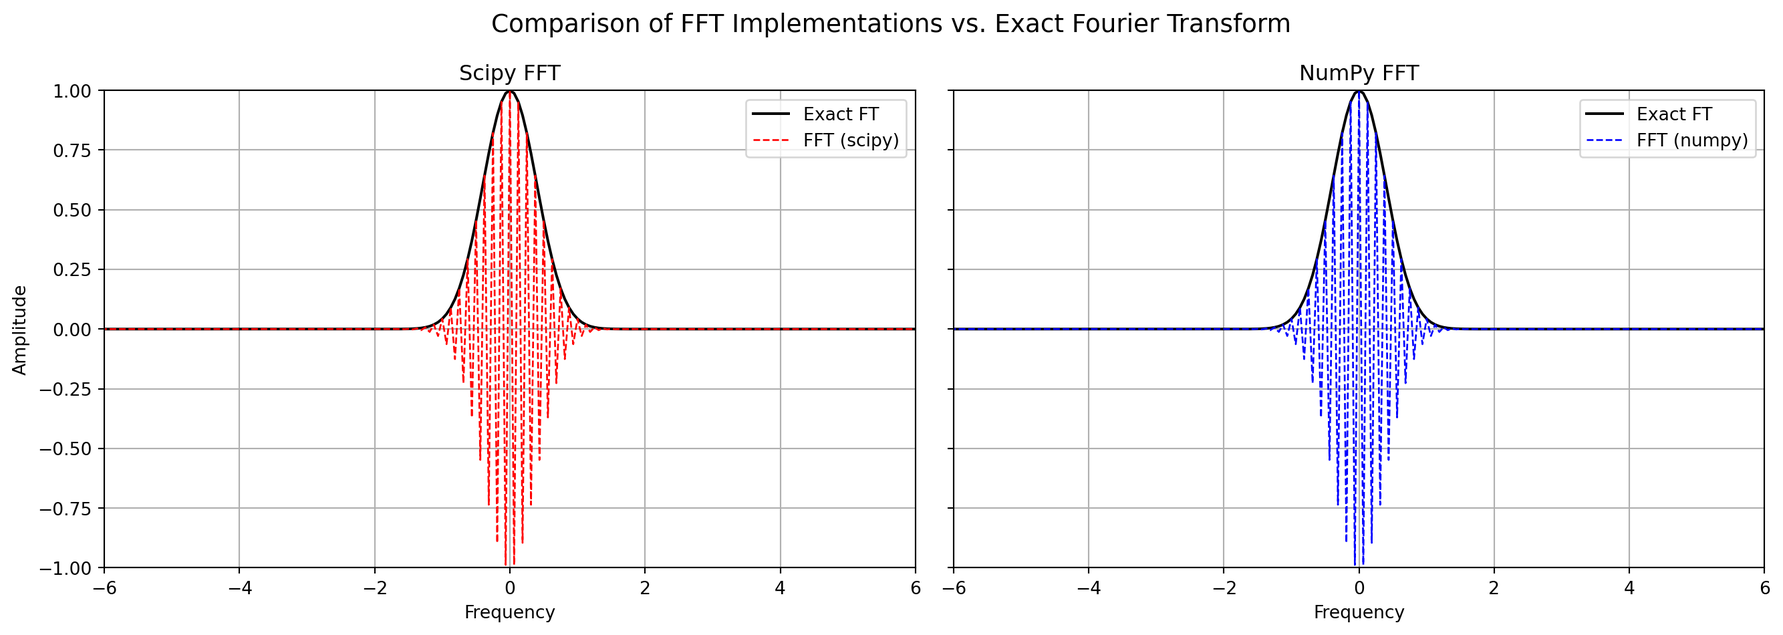
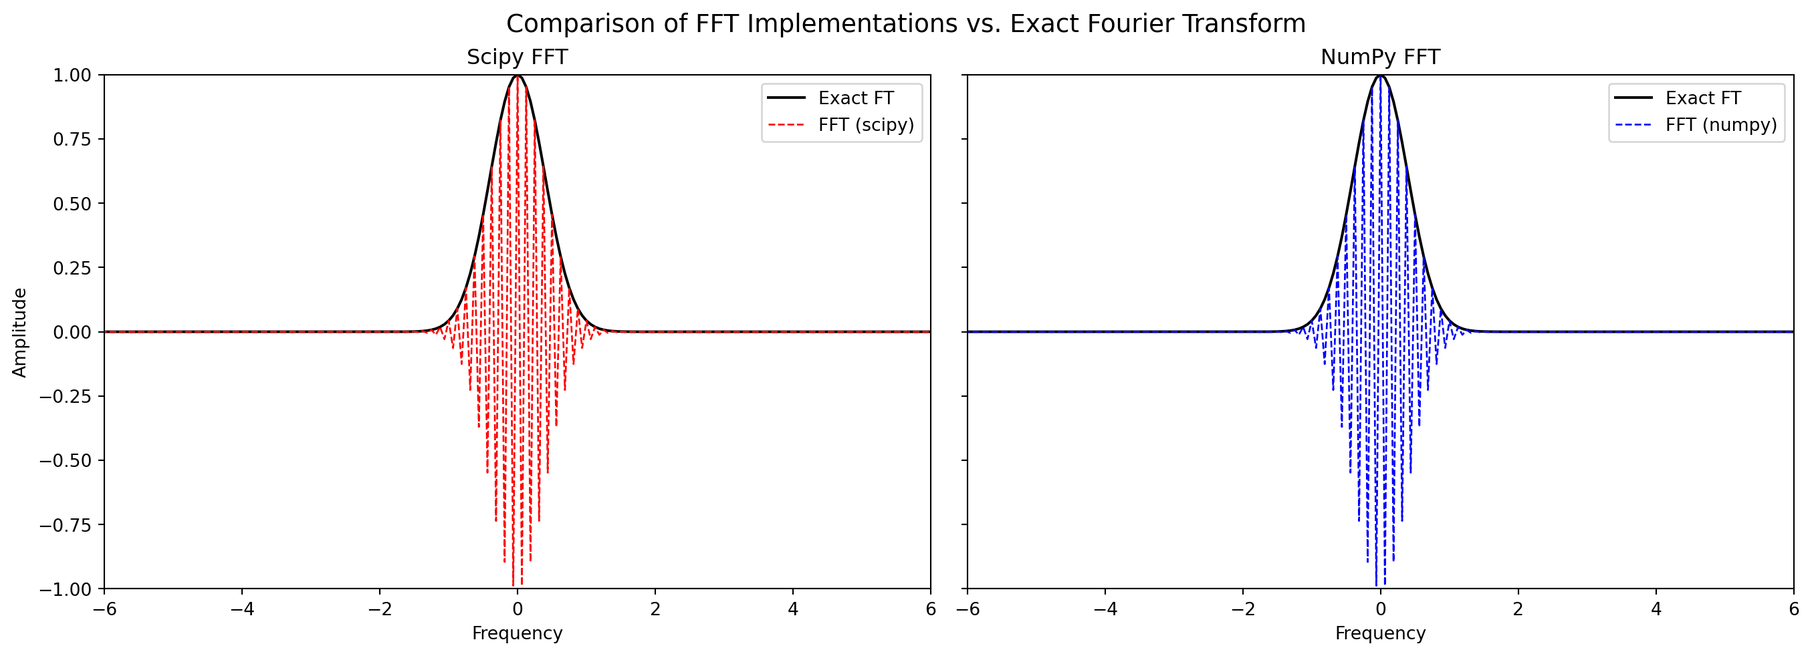
Built site for gh-pages

diff --git a/00_tds/fourrier_transformation.html b/00_tds/fourrier_transformation.html
@@ -7,7 +7,7 @@
 <meta name="viewport" content="width=device-width, initial-scale=1.0, user-scalable=yes">
 
 <meta name="author" content="Jumbong Junior">
-<meta name="dcterms.date" content="2025-06-20">
+<meta name="dcterms.date" content="2025-06-21">
 
 <title>Fourrier Transformation</title>
 <style>
@@ -126,6 +126,35 @@ div.csl-indent {
   }
 }</script>
 
+  <script src="https://cdnjs.cloudflare.com/polyfill/v3/polyfill.min.js?features=es6"></script>
+  <script src="https://cdn.jsdelivr.net/npm/mathjax@3/es5/tex-chtml-full.js" type="text/javascript"></script>
+
+<script type="text/javascript">
+const typesetMath = (el) => {
+  if (window.MathJax) {
+    // MathJax Typeset
+    window.MathJax.typeset([el]);
+  } else if (window.katex) {
+    // KaTeX Render
+    var mathElements = el.getElementsByClassName("math");
+    var macros = [];
+    for (var i = 0; i < mathElements.length; i++) {
+      var texText = mathElements[i].firstChild;
+      if (mathElements[i].tagName == "SPAN") {
+        window.katex.render(texText.data, mathElements[i], {
+          displayMode: mathElements[i].classList.contains('display'),
+          throwOnError: false,
+          macros: macros,
+          fleqn: false
+        });
+      }
+    }
+  }
+}
+window.Quarto = {
+  typesetMath
+};
+</script>
 
 <link rel="stylesheet" href="../styles.css">
 </head>
@@ -170,7 +199,16 @@ div.csl-indent {
     <h2 id="toc-title">Summary</h2>
    
   <ul>
-  <li><a href="#introduction" id="toc-introduction" class="nav-link active" data-scroll-target="#introduction">Introduction</a></li>
+  <li><a href="#introduction" id="toc-introduction" class="nav-link active" data-scroll-target="#introduction">Introduction</a>
+  <ul class="collapse">
+  <li><a href="#definition-and-properties-of-the-fourier-transform" id="toc-definition-and-properties-of-the-fourier-transform" class="nav-link" data-scroll-target="#definition-and-properties-of-the-fourier-transform">Definition and Properties of the Fourier Transform</a></li>
+  <li><a href="#how-to-approximate-the-fourier-transform" id="toc-how-to-approximate-the-fourier-transform" class="nav-link" data-scroll-target="#how-to-approximate-the-fourier-transform">How to approximate the Fourier Transform?</a></li>
+  <li><a href="#numerical-computation-of-the-fourier-transform" id="toc-numerical-computation-of-the-fourier-transform" class="nav-link" data-scroll-target="#numerical-computation-of-the-fourier-transform">Numerical Computation of the Fourier Transform</a></li>
+  <li><a href="#quadrature-method-of-rectangles-à-gauche" id="toc-quadrature-method-of-rectangles-à-gauche" class="nav-link" data-scroll-target="#quadrature-method-of-rectangles-à-gauche">Quadrature Method of Rectangles à Gauche</a>
+  <ul class="collapse">
+  <li><a href="#mis-en-oeuvre-in-python" id="toc-mis-en-oeuvre-in-python" class="nav-link" data-scroll-target="#mis-en-oeuvre-in-python">Mis en Oeuvre in Python</a></li>
+  </ul></li>
+  </ul></li>
   </ul>
 </nav>
 </nav>
@@ -200,7 +238,7 @@ div.csl-indent {
     <div>
     <div class="quarto-title-meta-heading">Published</div>
     <div class="quarto-title-meta-contents">
-      <p class="date">June 20, 2025</p>
+      <p class="date">June 21, 2025</p>
     </div>
   </div>
   
@@ -218,7 +256,7 @@ div.csl-indent {
 <p>Beyond spectral analysis, the Fourier transformation is employed in solving partial differential equations, evaluating integrals, and computing sums of series. It has applications in various fields, including physics, engineering, and signal processing. In recent years, it has found new uses in finance, such as estimating financial asset volatility, which We will cover in future posts.</p>
 <p>In this article, we explore the numerical computation of the Fourier transform for both real and complex functions. Drawing on the work of <span class="citation" data-cites="balac2011transformee">Balac (<a href="#ref-balac2011transformee" role="doc-biblioref">2011</a>)</span>, who proposed a quadrature-based approach, we illustrate how this method can be applied. We also demonstrate how the Fast Fourier Transform (FFT) algorithm <span class="citation" data-cites="cooley1965algorithm">(for more details see <a href="#ref-cooley1965algorithm" role="doc-biblioref">Cooley and Tukey 1965</a>)</span> enables efficient computation of the discrete Fourier transform, making it well-suited for calculating the Fourier transform of integrable functions and the Fourier coefficients of periodic functions.</p>
 <p>This article was motivated by the realization that the numerical methods implemented in Python—such as [<code>scipy.fft</code> and <code>numpy.fft</code>] do not directly compute the Fourier transform of a function. This observation had already been made by <span class="citation" data-cites="balac2011transformee">Balac (<a href="#ref-balac2011transformee" role="doc-biblioref">2011</a>)</span> in the context of MATLAB.</p>
-<div id="583e6f3f" class="cell" data-execution_count="1">
+<div id="4d157c19" class="cell" data-execution_count="1">
 <div class="sourceCode cell-code" id="cb1"><pre class="sourceCode python code-with-copy"><code class="sourceCode python"><span id="cb1-1"><a href="#cb1-1" aria-hidden="true" tabindex="-1"></a><span class="im">import</span> numpy <span class="im">as</span> np</span>
 <span id="cb1-2"><a href="#cb1-2" aria-hidden="true" tabindex="-1"></a><span class="im">import</span> matplotlib.pyplot <span class="im">as</span> plt</span>
 <span id="cb1-3"><a href="#cb1-3" aria-hidden="true" tabindex="-1"></a><span class="im">from</span> scipy.fft <span class="im">import</span> fft, fftfreq, fftshift</span>
@@ -242,36 +280,214 @@ div.csl-indent {
 <span id="cb1-21"><a href="#cb1-21" aria-hidden="true" tabindex="-1"></a>yf_numpy <span class="op">=</span> np.fft.fftshift(np.fft.fft(y)) <span class="op">*</span> T</span>
 <span id="cb1-22"><a href="#cb1-22" aria-hidden="true" tabindex="-1"></a>xf_numpy <span class="op">=</span> np.fft.fftshift(np.fft.fftfreq(N, T))</span>
 <span id="cb1-23"><a href="#cb1-23" aria-hidden="true" tabindex="-1"></a></span>
-<span id="cb1-24"><a href="#cb1-24" aria-hidden="true" tabindex="-1"></a><span class="co"># Plot side-by-side</span></span>
-<span id="cb1-25"><a href="#cb1-25" aria-hidden="true" tabindex="-1"></a>fig, axs <span class="op">=</span> plt.subplots(<span class="dv">1</span>, <span class="dv">2</span>, figsize<span class="op">=</span>(<span class="dv">14</span>, <span class="dv">5</span>), sharey<span class="op">=</span><span class="va">True</span>)</span>
+<span id="cb1-24"><a href="#cb1-24" aria-hidden="true" tabindex="-1"></a><span class="co"># Plot with subplot_mosaic</span></span>
+<span id="cb1-25"><a href="#cb1-25" aria-hidden="true" tabindex="-1"></a>fig, axs <span class="op">=</span> plt.subplot_mosaic([[<span class="st">"scipy"</span>, <span class="st">"numpy"</span>]], figsize<span class="op">=</span>(<span class="dv">14</span>, <span class="dv">5</span>), layout<span class="op">=</span><span class="st">"constrained"</span>, sharey<span class="op">=</span><span class="va">True</span>)</span>
 <span id="cb1-26"><a href="#cb1-26" aria-hidden="true" tabindex="-1"></a></span>
-<span id="cb1-27"><a href="#cb1-27" aria-hidden="true" tabindex="-1"></a><span class="co"># Left: Scipy FFT</span></span>
-<span id="cb1-28"><a href="#cb1-28" aria-hidden="true" tabindex="-1"></a>axs[<span class="dv">0</span>].plot(xf, FT_exact, <span class="st">'k-'</span>, linewidth<span class="op">=</span><span class="fl">1.5</span>, label<span class="op">=</span><span class="st">'Exact FT'</span>)</span>
-<span id="cb1-29"><a href="#cb1-29" aria-hidden="true" tabindex="-1"></a>axs[<span class="dv">0</span>].plot(xf, np.real(yf_scipy), <span class="st">'r--'</span>, linewidth<span class="op">=</span><span class="dv">1</span>, label<span class="op">=</span><span class="st">'FFT (scipy)'</span>)</span>
-<span id="cb1-30"><a href="#cb1-30" aria-hidden="true" tabindex="-1"></a>axs[<span class="dv">0</span>].set_xlim(<span class="op">-</span><span class="dv">6</span>, <span class="dv">6</span>)</span>
-<span id="cb1-31"><a href="#cb1-31" aria-hidden="true" tabindex="-1"></a>axs[<span class="dv">0</span>].set_ylim(<span class="op">-</span><span class="dv">1</span>, <span class="dv">1</span>)</span>
-<span id="cb1-32"><a href="#cb1-32" aria-hidden="true" tabindex="-1"></a>axs[<span class="dv">0</span>].set_title(<span class="st">"Scipy FFT"</span>)</span>
-<span id="cb1-33"><a href="#cb1-33" aria-hidden="true" tabindex="-1"></a>axs[<span class="dv">0</span>].set_xlabel(<span class="st">"Frequency"</span>)</span>
-<span id="cb1-34"><a href="#cb1-34" aria-hidden="true" tabindex="-1"></a>axs[<span class="dv">0</span>].set_ylabel(<span class="st">"Amplitude"</span>)</span>
-<span id="cb1-35"><a href="#cb1-35" aria-hidden="true" tabindex="-1"></a>axs[<span class="dv">0</span>].legend()</span>
-<span id="cb1-36"><a href="#cb1-36" aria-hidden="true" tabindex="-1"></a>axs[<span class="dv">0</span>].grid(<span class="va">True</span>)</span>
+<span id="cb1-27"><a href="#cb1-27" aria-hidden="true" tabindex="-1"></a><span class="co"># Scipy FFT</span></span>
+<span id="cb1-28"><a href="#cb1-28" aria-hidden="true" tabindex="-1"></a>axs[<span class="st">"scipy"</span>].plot(xf, FT_exact, <span class="st">'k-'</span>, linewidth<span class="op">=</span><span class="fl">1.5</span>, label<span class="op">=</span><span class="st">'Exact FT'</span>)</span>
+<span id="cb1-29"><a href="#cb1-29" aria-hidden="true" tabindex="-1"></a>axs[<span class="st">"scipy"</span>].plot(xf, np.real(yf_scipy), <span class="st">'r--'</span>, linewidth<span class="op">=</span><span class="dv">1</span>, label<span class="op">=</span><span class="st">'FFT (scipy)'</span>)</span>
+<span id="cb1-30"><a href="#cb1-30" aria-hidden="true" tabindex="-1"></a>axs[<span class="st">"scipy"</span>].set_xlim(<span class="op">-</span><span class="dv">6</span>, <span class="dv">6</span>)</span>
+<span id="cb1-31"><a href="#cb1-31" aria-hidden="true" tabindex="-1"></a>axs[<span class="st">"scipy"</span>].set_ylim(<span class="op">-</span><span class="dv">1</span>, <span class="dv">1</span>)</span>
+<span id="cb1-32"><a href="#cb1-32" aria-hidden="true" tabindex="-1"></a>axs[<span class="st">"scipy"</span>].set_title(<span class="st">"Scipy FFT"</span>)</span>
+<span id="cb1-33"><a href="#cb1-33" aria-hidden="true" tabindex="-1"></a>axs[<span class="st">"scipy"</span>].set_xlabel(<span class="st">"Frequency"</span>)</span>
+<span id="cb1-34"><a href="#cb1-34" aria-hidden="true" tabindex="-1"></a>axs[<span class="st">"scipy"</span>].set_ylabel(<span class="st">"Amplitude"</span>)</span>
+<span id="cb1-35"><a href="#cb1-35" aria-hidden="true" tabindex="-1"></a>axs[<span class="st">"scipy"</span>].legend()</span>
+<span id="cb1-36"><a href="#cb1-36" aria-hidden="true" tabindex="-1"></a>axs[<span class="st">"scipy"</span>].grid(<span class="va">False</span>)</span>
 <span id="cb1-37"><a href="#cb1-37" aria-hidden="true" tabindex="-1"></a></span>
-<span id="cb1-38"><a href="#cb1-38" aria-hidden="true" tabindex="-1"></a><span class="co"># Right: Numpy FFT</span></span>
-<span id="cb1-39"><a href="#cb1-39" aria-hidden="true" tabindex="-1"></a>axs[<span class="dv">1</span>].plot(xf_numpy, FT_exact, <span class="st">'k-'</span>, linewidth<span class="op">=</span><span class="fl">1.5</span>, label<span class="op">=</span><span class="st">'Exact FT'</span>)</span>
-<span id="cb1-40"><a href="#cb1-40" aria-hidden="true" tabindex="-1"></a>axs[<span class="dv">1</span>].plot(xf_numpy, np.real(yf_numpy), <span class="st">'b--'</span>, linewidth<span class="op">=</span><span class="dv">1</span>, label<span class="op">=</span><span class="st">'FFT (numpy)'</span>)</span>
-<span id="cb1-41"><a href="#cb1-41" aria-hidden="true" tabindex="-1"></a>axs[<span class="dv">1</span>].set_xlim(<span class="op">-</span><span class="dv">6</span>, <span class="dv">6</span>)</span>
-<span id="cb1-42"><a href="#cb1-42" aria-hidden="true" tabindex="-1"></a>axs[<span class="dv">1</span>].set_title(<span class="st">"NumPy FFT"</span>)</span>
-<span id="cb1-43"><a href="#cb1-43" aria-hidden="true" tabindex="-1"></a>axs[<span class="dv">1</span>].set_xlabel(<span class="st">"Frequency"</span>)</span>
-<span id="cb1-44"><a href="#cb1-44" aria-hidden="true" tabindex="-1"></a>axs[<span class="dv">1</span>].legend()</span>
-<span id="cb1-45"><a href="#cb1-45" aria-hidden="true" tabindex="-1"></a>axs[<span class="dv">1</span>].grid(<span class="va">True</span>)</span>
+<span id="cb1-38"><a href="#cb1-38" aria-hidden="true" tabindex="-1"></a><span class="co"># NumPy FFT</span></span>
+<span id="cb1-39"><a href="#cb1-39" aria-hidden="true" tabindex="-1"></a>axs[<span class="st">"numpy"</span>].plot(xf_numpy, FT_exact, <span class="st">'k-'</span>, linewidth<span class="op">=</span><span class="fl">1.5</span>, label<span class="op">=</span><span class="st">'Exact FT'</span>)</span>
+<span id="cb1-40"><a href="#cb1-40" aria-hidden="true" tabindex="-1"></a>axs[<span class="st">"numpy"</span>].plot(xf_numpy, np.real(yf_numpy), <span class="st">'b--'</span>, linewidth<span class="op">=</span><span class="dv">1</span>, label<span class="op">=</span><span class="st">'FFT (numpy)'</span>)</span>
+<span id="cb1-41"><a href="#cb1-41" aria-hidden="true" tabindex="-1"></a>axs[<span class="st">"numpy"</span>].set_xlim(<span class="op">-</span><span class="dv">6</span>, <span class="dv">6</span>)</span>
+<span id="cb1-42"><a href="#cb1-42" aria-hidden="true" tabindex="-1"></a>axs[<span class="st">"numpy"</span>].set_title(<span class="st">"NumPy FFT"</span>)</span>
+<span id="cb1-43"><a href="#cb1-43" aria-hidden="true" tabindex="-1"></a>axs[<span class="st">"numpy"</span>].set_xlabel(<span class="st">"Frequency"</span>)</span>
+<span id="cb1-44"><a href="#cb1-44" aria-hidden="true" tabindex="-1"></a>axs[<span class="st">"numpy"</span>].legend()</span>
+<span id="cb1-45"><a href="#cb1-45" aria-hidden="true" tabindex="-1"></a>axs[<span class="st">"numpy"</span>].grid(<span class="va">False</span>)</span>
 <span id="cb1-46"><a href="#cb1-46" aria-hidden="true" tabindex="-1"></a></span>
 <span id="cb1-47"><a href="#cb1-47" aria-hidden="true" tabindex="-1"></a>plt.suptitle(<span class="st">"Comparison of FFT Implementations vs. Exact Fourier Transform"</span>, fontsize<span class="op">=</span><span class="dv">14</span>)</span>
-<span id="cb1-48"><a href="#cb1-48" aria-hidden="true" tabindex="-1"></a>plt.tight_layout()</span>
-<span id="cb1-49"><a href="#cb1-49" aria-hidden="true" tabindex="-1"></a>plt.show()</span></code><button title="Copy to Clipboard" class="code-copy-button"><i class="bi"></i></button></pre></div>
+<span id="cb1-48"><a href="#cb1-48" aria-hidden="true" tabindex="-1"></a>plt.show()</span></code><button title="Copy to Clipboard" class="code-copy-button"><i class="bi"></i></button></pre></div>
 <div class="cell-output cell-output-display">
 <div>
 <figure class="figure">
-<p><img src="fourrier_transformation_files/figure-html/cell-2-output-1.png" width="1334" height="475" class="figure-img"></p>
+<p><img src="fourrier_transformation_files/figure-html/cell-2-output-1.png" width="1355" height="491" class="figure-img"></p>
+</figure>
+</div>
+</div>
+</div>
+<section id="definition-and-properties-of-the-fourier-transform" class="level2">
+<h2 class="anchored" data-anchor-id="definition-and-properties-of-the-fourier-transform">Definition and Properties of the Fourier Transform</h2>
+<p>We must first define the space in which the function we want to compute the Fourier transform is defined and the caracteristics they must satisfy so that the Fourier transform exists. These functions are defined in the space of integrable functions, denoted by <span class="math inline">\(L^1(\mathbb{R,K})\)</span> which are functions <span class="math inline">\(f:\mathbb{R} \to \mathbb{K}\)</span> [where <span class="math inline">\(\mathbb{K}\)</span> is either <span class="math inline">\(\mathbb{R}\)</span> or <span class="math inline">\(\mathbb{C}\)</span>]. These functions are integrable in the sense of Lebesgue, meaning that the integral of their absolute value is finite: <span class="math display">\[
+\int_{-\infty}^{+\infty} |f(t)| dt &lt; +\infty.
+\]</span></p>
+<p>So for a function <span class="math inline">\(f\)</span> to be in <span class="math inline">\(L^1(\mathbb{R,K})\)</span>, the product <span class="math inline">\(f(t) \cdot e^{-2i\pi\nu t}\)</span> is integrable for all <span class="math inline">\(\nu \in \mathbb{R}\)</span>. And for all <span class="math inline">\(\nu \in \mathbb{R}\)</span>, the function <span class="math inline">\(\hat{f}\)</span> [notée egalement <span class="math inline">\(F(f)\)</span>] defined by <span class="math display">\[
+\hat{f}(\nu) = \int_{-\infty}^{+\infty}
+f(x) e^{-2i\pi\nu t} dt
+\]</span></p>
+<p>is well-defined and is called the Fourier transform of <span class="math inline">\(f\)</span>.</p>
+<p>We deduce in this formula that a Fourier transform is a complex-valued function, and it is a linear operator. We can also deduce others properties of the Fourier transform in particular for a function <span class="math inline">\(f\)</span> in <span class="math inline">\(L^1(\mathbb{R,R})\)</span>, une fonction à valeurs réelles :</p>
+<ul>
+<li><p>Translation property: If <span class="math inline">\(f\)</span> is in <span class="math inline">\(L^1(\mathbb{R,K})\)</span>, <span class="math inline">\(t_0 \in \mathbb{R}\)</span>, and <span class="math inline">\(h : t \in \mathbb{R} \mapsto f(t - t_0)\)</span>, we have <span class="math inline">\(h \in L^1(\mathbb{R,K})\)</span> and <span class="math inline">\(\hat{h}(\nu) = e^{-2i\pi\nu t_0} \hat{f}(\nu)\)</span>.</p></li>
+<li><p>Homothety property: If <span class="math inline">\(f\)</span> is in <span class="math inline">\(L^1(\mathbb{R,K})\)</span> and <span class="math inline">\(a \in \mathbb{R}\)</span>, then the function <span class="math inline">\(g : t \in \mathbb{R} \mapsto f(at)\)</span> is in <span class="math inline">\(L^1(\mathbb{R,K})\)</span> and <span class="math inline">\(\hat{g}(\nu) = \frac{1}{|a|} \hat{f}\left(\frac{\nu}{a}\right)\)</span>.</p></li>
+<li><p>Modulation property: If <span class="math inline">\(f\)</span> is in <span class="math inline">\(L^1(\mathbb{R,K})\)</span> and <span class="math inline">\(\nu_0 \in \mathbb{R}\)</span>, and <span class="math inline">\(h : t \in \mathbb{R} \mapsto f(t) e^{2i\pi\nu_0 t}\)</span>, we have <span class="math inline">\(h \in L^1(\mathbb{R,K})\)</span> and <span class="math inline">\(\hat{h}(\nu) = \hat{f}(\nu - \nu_0)\)</span>.</p></li>
+<li><p>If <span class="math inline">\(f \in L^1(\mathbb{R,R})\)</span> and est pair, then <span class="math inline">\(\hat{f}\)</span> is also real-valued and the real part of <span class="math inline">\(\hat{f}\)</span> is also an even function.</p></li>
+<li><p>If <span class="math inline">\(f\)</span> is in <span class="math inline">\(L^1(\mathbb{R,R})\)</span> and is odd, then <span class="math inline">\(\hat{f}\)</span> is est une fonction imaginaire pure and the imaginary part of <span class="math inline">\(\hat{f}\)</span> is also an odd function.</p></li>
+</ul>
+<p>For some functions, the Fourier transform can be computed analytically. For example, for the function <span class="math inline">\(f : t \in \mathbb{R} \mapsto \mathbb{1}_{[-\frac{a}{2}, \frac{a}{2}]}(t)\)</span>, the Fourier transform is given by: <span class="math display">\[
+\hat{f} : \nu \in \mathbb{R} \mapsto a sinc(a \pi \nu)
+\]</span> where <span class="math inline">\(sinc(t) = \frac{\sin(t)}{t}\)</span> is the sinc function.</p>
+<p>However, for many functions, the Fourier transform cannot be computed analytically. In such cases, we can use numerical methods to approximate the Fourier transform. We will explore these numerical dans la suite of this article.</p>
+</section>
+<section id="how-to-approximate-the-fourier-transform" class="level2">
+<h2 class="anchored" data-anchor-id="how-to-approximate-the-fourier-transform">How to approximate the Fourier Transform?</h2>
+<p>The Fourier transform of a function <span class="math inline">\(f\)</span> is defined as an integral over the entire real line. However, for the functions that are integral in the sense of lebesgue and that have a practical applications tend to 0 as <span class="math inline">\(|t| \to +\infty\)</span>. And we can approximate the Fourier transform by integrating over a finite interval <span class="math inline">\([-T, T]\)</span>. If the lenght of the interval is large enough, or if the function decays quickly when t tends to infinity, this approximation will be accurate.</p>
+<p><span class="math display">\[
+\hat{f}(\nu) \approx \int_{-T}^{T} f(t) e^{-2i\pi\nu t} dt
+\]</span></p>
+<p>In his article, <span class="citation" data-cites="balac2011transformee">Balac (<a href="#ref-balac2011transformee" role="doc-biblioref">2011</a>)</span> va plus loin en montrant qu’approximating the Fourier transform met en oeuvre trois outils mathématiques :</p>
+<ul>
+<li>Les séries de Fourier dans le cadre d’un signal périodique.</li>
+<li>La transformée de Fourier dans le cadre d’un signal non périodique.</li>
+<li>La transformée de Fourier discrète dans le cadre d’un signal discret.</li>
+</ul>
+<p>And for each of these tools, computing the Fourier transform revient à calculer l’intgrale below: <span class="math display">\[
+\hat{f}(\nu) \approx \int_{-\frac{T}{2}}^{\frac{T}{2}} f(t) e^{-2i\pi\nu t} dt
+\]</span> I recommends reading his article for more details on these three tools. Then we will focus on the numerical computation of the Fourier transform using quadrature methods, which is a numerical integration technique.</p>
+</section>
+<section id="numerical-computation-of-the-fourier-transform" class="level2">
+<h2 class="anchored" data-anchor-id="numerical-computation-of-the-fourier-transform">Numerical Computation of the Fourier Transform</h2>
+<p>We show that to compute the Fourier transform of a function <span class="math inline">\(f\)</span> consists to approximating it by the integral below in the interval <span class="math inline">\([-\frac{T}{2}, \frac{T}{2}]\)</span>: <span class="math display">\[
+\underbrace{
+  \int_{-\infty}^{+\infty} f(t)\, e^{-2\pi i \nu t} \, dt
+}_{=\,\hat{f}(\nu)}
+\approx
+\underbrace{
+  \int_{-\frac{T}{2}}^{\frac{T}{2}} f(t)\, e^{-2\pi i \nu t} \, dt
+}_{=\,\tilde{S}(\nu)}
+\]</span></p>
+<p>where T is a large enough number such that the integral converges. Une valeur approchée of the integral <span class="math inline">\(\tilde{S}(\nu) = \int_{-\frac{T}{2}}^{\frac{T}{2}} f(t)\, e^{-2\pi i \nu t} \, dt\)</span> can be computed using quadrature methods. In the next section, we will approximate the integral using the quadrature method of rectangles à gauche.</p>
+</section>
+<section id="quadrature-method-of-rectangles-à-gauche" class="level2">
+<h2 class="anchored" data-anchor-id="quadrature-method-of-rectangles-à-gauche">Quadrature Method of Rectangles à Gauche</h2>
+<p>For computing the integral <span class="math inline">\(\tilde{S}(\nu) = \int_{-\frac{T}{2}}^{\frac{T}{2}} f(t)\, e^{-2\pi i \nu t} \, dt\)</span>, using the quadrature method of rectangles à gauche, we must respect the following steps: 1. <strong>Discretization of the Interval</strong>: We discretize the interval <span class="math inline">\([-\frac{T}{2}, \frac{T}{2}]\)</span> into <span class="math inline">\(N\)</span> uniform subintervals of length <span class="math inline">\(h_t = \frac{T}{N}\)</span>. The points in the interval are given by:</p>
+<p><span class="math display">\[
+t_k = -\frac{T}{2} + k \cdot h_t, \quad k = 0, 1, \ldots, N-1.
+\]</span></p>
+<ol start="2" type="1">
+<li><strong>Approximation of the Integral</strong>: Using the Chasles relation, we can approximate the integral <span class="math inline">\(\tilde{S}(\nu)\)</span> as follows:</li>
+</ol>
+<p><span class="math display">\[
+\tilde{S}(\nu) = \int_{-\frac{T}{2}}^{\frac{T}{2}} f(t)\, e^{-2\pi i \nu t} \, dt = \sum_{k=0}^{N-1}  \int_{t_k}^{t_{k+1}} f(t)\, e^{-2\pi i \nu t} \, dt.
+\]</span></p>
+<p>By taking into account that we have <span class="math inline">\(t_{k+1} - t_k = h_t\)</span>, and <span class="math inline">\(t_k = -\frac{T}{2} + k \cdot h_t = T(\frac{k}{N} - \frac{1}{2})\)</span>, we can rewrite the integral as: <span class="math display">\[
+\tilde{S}(\nu) = \sum_{k=0}^{N-1} f(t_k) e^{-2\pi i \nu t_k} h_t.
+\]</span> 3. <strong>Final Formula</strong>: The final formula for the approximation of the Fourier transform is given by:</p>
+<p><span class="math display">\[
+\boxed{
+\forall \nu \in \mathbb{R} \quad
+\underbrace{
+\int_{-\frac{T}{2}}^{\frac{T}{2}} f(t)\, e^{-2\pi i \nu t} \, dt
+}_{=\,\tilde{S}(\nu)}
+\approx
+\underbrace{
+\frac{T}{n} e^{i \pi \nu T} \sum_{k=0}^{n-1} f_k\, e^{-2 i \pi \nu T k / n}
+}_{=\,\tilde{S}_n(\nu)}
+\quad \text{où } f_k = f\left( \frac{2k - n}{2n} T \right).
+}
+\]</span></p>
+<section id="mis-en-oeuvre-in-python" class="level3">
+<h3 class="anchored" data-anchor-id="mis-en-oeuvre-in-python">Mis en Oeuvre in Python</h3>
+<p>The function <code>tfquad</code> below implements the quadrature method of rectangles à gauche to compute the Fourier transform of a function <code>f</code> at a given frequency <code>nu</code>.</p>
+<div id="83544a2c" class="cell" data-execution_count="2">
+<div class="sourceCode cell-code" id="cb2"><pre class="sourceCode python code-with-copy"><code class="sourceCode python"><span id="cb2-1"><a href="#cb2-1" aria-hidden="true" tabindex="-1"></a><span class="im">import</span> numpy <span class="im">as</span> np</span>
+<span id="cb2-2"><a href="#cb2-2" aria-hidden="true" tabindex="-1"></a></span>
+<span id="cb2-3"><a href="#cb2-3" aria-hidden="true" tabindex="-1"></a><span class="kw">def</span> tfquad(f, nu, n, T):</span>
+<span id="cb2-4"><a href="#cb2-4" aria-hidden="true" tabindex="-1"></a>    <span class="co">"""</span></span>
+<span id="cb2-5"><a href="#cb2-5" aria-hidden="true" tabindex="-1"></a><span class="co">    Computes the Fourier transform of a function f at frequency nu</span></span>
+<span id="cb2-6"><a href="#cb2-6" aria-hidden="true" tabindex="-1"></a><span class="co">    using left Riemann sum quadrature over the interval [-T/2, T/2].</span></span>
+<span id="cb2-7"><a href="#cb2-7" aria-hidden="true" tabindex="-1"></a></span>
+<span id="cb2-8"><a href="#cb2-8" aria-hidden="true" tabindex="-1"></a><span class="co">    Parameters:</span></span>
+<span id="cb2-9"><a href="#cb2-9" aria-hidden="true" tabindex="-1"></a><span class="co">    ----------</span></span>
+<span id="cb2-10"><a href="#cb2-10" aria-hidden="true" tabindex="-1"></a><span class="co">    f : callable</span></span>
+<span id="cb2-11"><a href="#cb2-11" aria-hidden="true" tabindex="-1"></a><span class="co">        The function to transform. Must accept a NumPy array as input.</span></span>
+<span id="cb2-12"><a href="#cb2-12" aria-hidden="true" tabindex="-1"></a><span class="co">    nu : float</span></span>
+<span id="cb2-13"><a href="#cb2-13" aria-hidden="true" tabindex="-1"></a><span class="co">        The frequency at which to evaluate the Fourier transform.</span></span>
+<span id="cb2-14"><a href="#cb2-14" aria-hidden="true" tabindex="-1"></a><span class="co">    n : int</span></span>
+<span id="cb2-15"><a href="#cb2-15" aria-hidden="true" tabindex="-1"></a><span class="co">        Number of quadrature points.</span></span>
+<span id="cb2-16"><a href="#cb2-16" aria-hidden="true" tabindex="-1"></a><span class="co">    T : float</span></span>
+<span id="cb2-17"><a href="#cb2-17" aria-hidden="true" tabindex="-1"></a><span class="co">        Width of the time window [-T/2, T/2].</span></span>
+<span id="cb2-18"><a href="#cb2-18" aria-hidden="true" tabindex="-1"></a></span>
+<span id="cb2-19"><a href="#cb2-19" aria-hidden="true" tabindex="-1"></a><span class="co">    Returns:</span></span>
+<span id="cb2-20"><a href="#cb2-20" aria-hidden="true" tabindex="-1"></a><span class="co">    -------</span></span>
+<span id="cb2-21"><a href="#cb2-21" aria-hidden="true" tabindex="-1"></a><span class="co">    tfnu : complex</span></span>
+<span id="cb2-22"><a href="#cb2-22" aria-hidden="true" tabindex="-1"></a><span class="co">        Approximated value of the Fourier transform at frequency nu.</span></span>
+<span id="cb2-23"><a href="#cb2-23" aria-hidden="true" tabindex="-1"></a><span class="co">    """</span></span>
+<span id="cb2-24"><a href="#cb2-24" aria-hidden="true" tabindex="-1"></a>    k <span class="op">=</span> np.arange(n)</span>
+<span id="cb2-25"><a href="#cb2-25" aria-hidden="true" tabindex="-1"></a>    t_k <span class="op">=</span> (k <span class="op">/</span> n <span class="op">-</span> <span class="fl">0.5</span>) <span class="op">*</span> T</span>
+<span id="cb2-26"><a href="#cb2-26" aria-hidden="true" tabindex="-1"></a>    weights <span class="op">=</span> np.exp(<span class="op">-</span><span class="ot">2j</span> <span class="op">*</span> np.pi <span class="op">*</span> nu <span class="op">*</span> T <span class="op">*</span> k <span class="op">/</span> n)</span>
+<span id="cb2-27"><a href="#cb2-27" aria-hidden="true" tabindex="-1"></a>    prefactor <span class="op">=</span> (T <span class="op">/</span> n) <span class="op">*</span> np.exp(<span class="ot">1j</span> <span class="op">*</span> np.pi <span class="op">*</span> nu <span class="op">*</span> T)</span>
+<span id="cb2-28"><a href="#cb2-28" aria-hidden="true" tabindex="-1"></a></span>
+<span id="cb2-29"><a href="#cb2-29" aria-hidden="true" tabindex="-1"></a>    <span class="cf">return</span> prefactor <span class="op">*</span> np.<span class="bu">sum</span>(f(t_k) <span class="op">*</span> weights)</span></code><button title="Copy to Clipboard" class="code-copy-button"><i class="bi"></i></button></pre></div>
+</div>
+<p>We can also use the function scipy’s <code>quad</code> functionnfor defining the Fourier transform of a function <code>f</code> at a given frequency <code>nu</code>. The function <code>tf_integral</code> below implements this approach. It uses numerical integration to compute the Fourier transform of a function <code>f</code> over the interval <span class="math inline">\([-T/2, T/2]\)</span>.</p>
+<div id="0c48a1f3" class="cell" data-execution_count="3">
+<div class="sourceCode cell-code" id="cb3"><pre class="sourceCode python code-with-copy"><code class="sourceCode python"><span id="cb3-1"><a href="#cb3-1" aria-hidden="true" tabindex="-1"></a><span class="im">from</span> scipy.integrate <span class="im">import</span> quad</span>
+<span id="cb3-2"><a href="#cb3-2" aria-hidden="true" tabindex="-1"></a></span>
+<span id="cb3-3"><a href="#cb3-3" aria-hidden="true" tabindex="-1"></a><span class="kw">def</span> tf_integral(f, nu, T):</span>
+<span id="cb3-4"><a href="#cb3-4" aria-hidden="true" tabindex="-1"></a>    <span class="co">"""Compute FT of f at frequency nu over [-T/2, T/2] using scipy quad."""</span></span>
+<span id="cb3-5"><a href="#cb3-5" aria-hidden="true" tabindex="-1"></a>    real_part <span class="op">=</span> quad(<span class="kw">lambda</span> t: np.real(f(t) <span class="op">*</span> np.exp(<span class="op">-</span><span class="ot">2j</span> <span class="op">*</span> np.pi <span class="op">*</span> nu <span class="op">*</span> t)), <span class="op">-</span>T<span class="op">/</span><span class="dv">2</span>, T<span class="op">/</span><span class="dv">2</span>)[<span class="dv">0</span>]</span>
+<span id="cb3-6"><a href="#cb3-6" aria-hidden="true" tabindex="-1"></a>    imag_part <span class="op">=</span> quad(<span class="kw">lambda</span> t: np.imag(f(t) <span class="op">*</span> np.exp(<span class="op">-</span><span class="ot">2j</span> <span class="op">*</span> np.pi <span class="op">*</span> nu <span class="op">*</span> t)), <span class="op">-</span>T<span class="op">/</span><span class="dv">2</span>, T<span class="op">/</span><span class="dv">2</span>)[<span class="dv">0</span>]</span>
+<span id="cb3-7"><a href="#cb3-7" aria-hidden="true" tabindex="-1"></a>    <span class="cf">return</span> real_part <span class="op">+</span> <span class="ot">1j</span> <span class="op">*</span> imag_part</span></code><button title="Copy to Clipboard" class="code-copy-button"><i class="bi"></i></button></pre></div>
+</div>
+<div id="25e4a6fb" class="cell" data-execution_count="4">
+<div class="sourceCode cell-code" id="cb4"><pre class="sourceCode python code-with-copy"><code class="sourceCode python"><span id="cb4-1"><a href="#cb4-1" aria-hidden="true" tabindex="-1"></a><span class="im">import</span> numpy <span class="im">as</span> np</span>
+<span id="cb4-2"><a href="#cb4-2" aria-hidden="true" tabindex="-1"></a><span class="im">import</span> matplotlib.pyplot <span class="im">as</span> plt</span>
+<span id="cb4-3"><a href="#cb4-3" aria-hidden="true" tabindex="-1"></a></span>
+<span id="cb4-4"><a href="#cb4-4" aria-hidden="true" tabindex="-1"></a><span class="co"># ----- Function Definitions -----</span></span>
+<span id="cb4-5"><a href="#cb4-5" aria-hidden="true" tabindex="-1"></a></span>
+<span id="cb4-6"><a href="#cb4-6" aria-hidden="true" tabindex="-1"></a><span class="kw">def</span> f(t):</span>
+<span id="cb4-7"><a href="#cb4-7" aria-hidden="true" tabindex="-1"></a>    <span class="co">"""Indicator function on [-1, 1]."""</span></span>
+<span id="cb4-8"><a href="#cb4-8" aria-hidden="true" tabindex="-1"></a>    <span class="cf">return</span> np.where(np.<span class="bu">abs</span>(t) <span class="op">&lt;=</span> <span class="dv">1</span>, <span class="fl">1.0</span>, <span class="fl">0.0</span>)</span>
+<span id="cb4-9"><a href="#cb4-9" aria-hidden="true" tabindex="-1"></a></span>
+<span id="cb4-10"><a href="#cb4-10" aria-hidden="true" tabindex="-1"></a><span class="kw">def</span> exact_fourier_transform(nu):</span>
+<span id="cb4-11"><a href="#cb4-11" aria-hidden="true" tabindex="-1"></a>    <span class="co">"""Analytical FT of the indicator function over [-1, 1]."""</span></span>
+<span id="cb4-12"><a href="#cb4-12" aria-hidden="true" tabindex="-1"></a>    <span class="co"># f̂(ν) = ∫_{-1}^{1} e^{-2πiνt} dt = 2 * sinc(2ν)</span></span>
+<span id="cb4-13"><a href="#cb4-13" aria-hidden="true" tabindex="-1"></a>    <span class="cf">return</span> <span class="dv">2</span> <span class="op">*</span> np.sinc(<span class="dv">2</span> <span class="op">*</span> nu)</span>
+<span id="cb4-14"><a href="#cb4-14" aria-hidden="true" tabindex="-1"></a></span>
+<span id="cb4-15"><a href="#cb4-15" aria-hidden="true" tabindex="-1"></a></span>
+<span id="cb4-16"><a href="#cb4-16" aria-hidden="true" tabindex="-1"></a><span class="co"># ----- Computation -----</span></span>
+<span id="cb4-17"><a href="#cb4-17" aria-hidden="true" tabindex="-1"></a></span>
+<span id="cb4-18"><a href="#cb4-18" aria-hidden="true" tabindex="-1"></a>T <span class="op">=</span> <span class="fl">2.0</span></span>
+<span id="cb4-19"><a href="#cb4-19" aria-hidden="true" tabindex="-1"></a>n <span class="op">=</span> <span class="dv">32</span></span>
+<span id="cb4-20"><a href="#cb4-20" aria-hidden="true" tabindex="-1"></a>nu_vals <span class="op">=</span> np.linspace(<span class="op">-</span><span class="dv">6</span>, <span class="dv">6</span>, <span class="dv">500</span>)</span>
+<span id="cb4-21"><a href="#cb4-21" aria-hidden="true" tabindex="-1"></a>exact_vals <span class="op">=</span> exact_fourier_transform(nu_vals)</span>
+<span id="cb4-22"><a href="#cb4-22" aria-hidden="true" tabindex="-1"></a>approx_vals <span class="op">=</span> np.array([tfquad(f, nu, n, T) <span class="cf">for</span> nu <span class="kw">in</span> nu_vals])</span></code><button title="Copy to Clipboard" class="code-copy-button"><i class="bi"></i></button></pre></div>
+</div>
+<div id="1398ff13" class="cell" data-execution_count="5">
+<div class="sourceCode cell-code" id="cb5"><pre class="sourceCode python code-with-copy"><code class="sourceCode python"><span id="cb5-1"><a href="#cb5-1" aria-hidden="true" tabindex="-1"></a>fig, axs <span class="op">=</span> plt.subplot_mosaic([[<span class="st">"quad"</span>, <span class="st">"tfquad"</span>]], figsize<span class="op">=</span>(<span class="dv">12</span>, <span class="dv">4</span>), layout<span class="op">=</span><span class="st">"constrained"</span>)</span>
+<span id="cb5-2"><a href="#cb5-2" aria-hidden="true" tabindex="-1"></a></span>
+<span id="cb5-3"><a href="#cb5-3" aria-hidden="true" tabindex="-1"></a><span class="co"># Plot using scipy.integrate.quad</span></span>
+<span id="cb5-4"><a href="#cb5-4" aria-hidden="true" tabindex="-1"></a>axs[<span class="st">"quad"</span>].plot(nu_vals, np.real(exact_vals), <span class="st">'b-'</span>, linewidth<span class="op">=</span><span class="dv">2</span>, label<span class="op">=</span><span class="vs">r'$\hat</span><span class="sc">{f}</span><span class="vs">$ (quad)'</span>)</span>
+<span id="cb5-5"><a href="#cb5-5" aria-hidden="true" tabindex="-1"></a>axs[<span class="st">"quad"</span>].plot(nu_vals, np.real(approx_vals), <span class="st">'r--'</span>, linewidth<span class="op">=</span><span class="fl">1.5</span>, label<span class="op">=</span><span class="vs">r'approximation $\hat</span><span class="sc">{S}</span><span class="vs">_n$'</span>)</span>
+<span id="cb5-6"><a href="#cb5-6" aria-hidden="true" tabindex="-1"></a>axs[<span class="st">"quad"</span>].set_title(<span class="st">"TF avec scipy.integrate.quad"</span>)</span>
+<span id="cb5-7"><a href="#cb5-7" aria-hidden="true" tabindex="-1"></a>axs[<span class="st">"quad"</span>].set_xlabel(<span class="vs">r'$\nu$'</span>)</span>
+<span id="cb5-8"><a href="#cb5-8" aria-hidden="true" tabindex="-1"></a>axs[<span class="st">"quad"</span>].set_ylabel(<span class="st">'Amplitude'</span>)</span>
+<span id="cb5-9"><a href="#cb5-9" aria-hidden="true" tabindex="-1"></a>axs[<span class="st">"quad"</span>].grid(<span class="va">False</span>)</span>
+<span id="cb5-10"><a href="#cb5-10" aria-hidden="true" tabindex="-1"></a>axs[<span class="st">"quad"</span>].legend()</span>
+<span id="cb5-11"><a href="#cb5-11" aria-hidden="true" tabindex="-1"></a>axs[<span class="st">"quad"</span>].set_ylim(<span class="op">-</span><span class="fl">0.5</span>, <span class="fl">2.1</span>)</span>
+<span id="cb5-12"><a href="#cb5-12" aria-hidden="true" tabindex="-1"></a></span>
+<span id="cb5-13"><a href="#cb5-13" aria-hidden="true" tabindex="-1"></a><span class="co"># Plot using tfquad implementation</span></span>
+<span id="cb5-14"><a href="#cb5-14" aria-hidden="true" tabindex="-1"></a>axs[<span class="st">"tfquad"</span>].plot(nu_vals, np.real(exact_vals), <span class="st">'b-'</span>, linewidth<span class="op">=</span><span class="dv">2</span>, label<span class="op">=</span><span class="vs">r'$\hat</span><span class="sc">{f}</span><span class="vs">$ (exact)'</span>)</span>
+<span id="cb5-15"><a href="#cb5-15" aria-hidden="true" tabindex="-1"></a>axs[<span class="st">"tfquad"</span>].plot(nu_vals, np.real(approx_vals), <span class="st">'r--'</span>, linewidth<span class="op">=</span><span class="fl">1.5</span>, label<span class="op">=</span><span class="vs">r'approximation $\hat</span><span class="sc">{S}</span><span class="vs">_n$'</span>)</span>
+<span id="cb5-16"><a href="#cb5-16" aria-hidden="true" tabindex="-1"></a>axs[<span class="st">"tfquad"</span>].set_title(<span class="st">"TF avec tfquad (rectangles)"</span>)</span>
+<span id="cb5-17"><a href="#cb5-17" aria-hidden="true" tabindex="-1"></a>axs[<span class="st">"tfquad"</span>].set_xlabel(<span class="vs">r'$\nu$'</span>)</span>
+<span id="cb5-18"><a href="#cb5-18" aria-hidden="true" tabindex="-1"></a>axs[<span class="st">"tfquad"</span>].grid(<span class="va">False</span>)</span>
+<span id="cb5-19"><a href="#cb5-19" aria-hidden="true" tabindex="-1"></a>axs[<span class="st">"tfquad"</span>].legend()</span>
+<span id="cb5-20"><a href="#cb5-20" aria-hidden="true" tabindex="-1"></a>axs[<span class="st">"tfquad"</span>].set_ylim(<span class="op">-</span><span class="fl">0.5</span>, <span class="fl">2.1</span>)</span>
+<span id="cb5-21"><a href="#cb5-21" aria-hidden="true" tabindex="-1"></a></span>
+<span id="cb5-22"><a href="#cb5-22" aria-hidden="true" tabindex="-1"></a>plt.show()</span></code><button title="Copy to Clipboard" class="code-copy-button"><i class="bi"></i></button></pre></div>
+<div class="cell-output cell-output-display">
+<div>
+<figure class="figure">
+<p><img src="fourrier_transformation_files/figure-html/cell-6-output-1.png" width="1163" height="395" class="figure-img"></p>
 </figure>
 </div>
 </div>
@@ -279,6 +495,8 @@ div.csl-indent {
 
 
 
+</section>
+</section>
 </section>
 
 <a onclick="window.scrollTo(0, 0); return false;" role="button" id="quarto-back-to-top"><i class="bi bi-arrow-up"></i> Back to top</a><div id="quarto-appendix" class="default"><section class="quarto-appendix-contents" role="doc-bibliography" id="quarto-bibliography"><h2 class="anchored quarto-appendix-heading">References</h2><div id="refs" class="references csl-bib-body hanging-indent" data-entry-spacing="0" role="list">

diff --git a/index.html b/index.html
@@ -172,12 +172,12 @@ ul.task-list li input[type="checkbox"] {
 <li><a href="./00_tds/proportional_ordinal_regression.html">Proportional Odds Model for Ordinal Logistic Regression</a></li>
 <li><a href="./Others/spurious_reg.html">Spurious Regression in Time Series</a></li>
 <li><a href="https://towardsdatascience.com/multiple-linear-regression-analysis/multiple-linear-regression-analysis-using-python-1c0f2b7d8e3a">Multiple Linear Regression Analysis</a></li>
+<li><a href="./00_tds/fourrier_transformation.html">Fourier Transformation</a></li>
 </ul></li>
 <li><p><strong>Others :</strong></p>
 <ul>
 <li><p><a href="./Meduim/RegressionLogistique/bias_sample.html">Sampling Bias and Class Imbalance in Maximum-likelihood Logistic Regression</a></p></li>
 <li><p><a href="./Others/number_obs_for_model.html">Number of optimal defaults in credit rating</a></p></li>
-<li><p><a href="./00_tds/fourrier_transformation.html">Fourier Transformation</a></p></li>
 </ul></li>
 </ul>
 </section>
